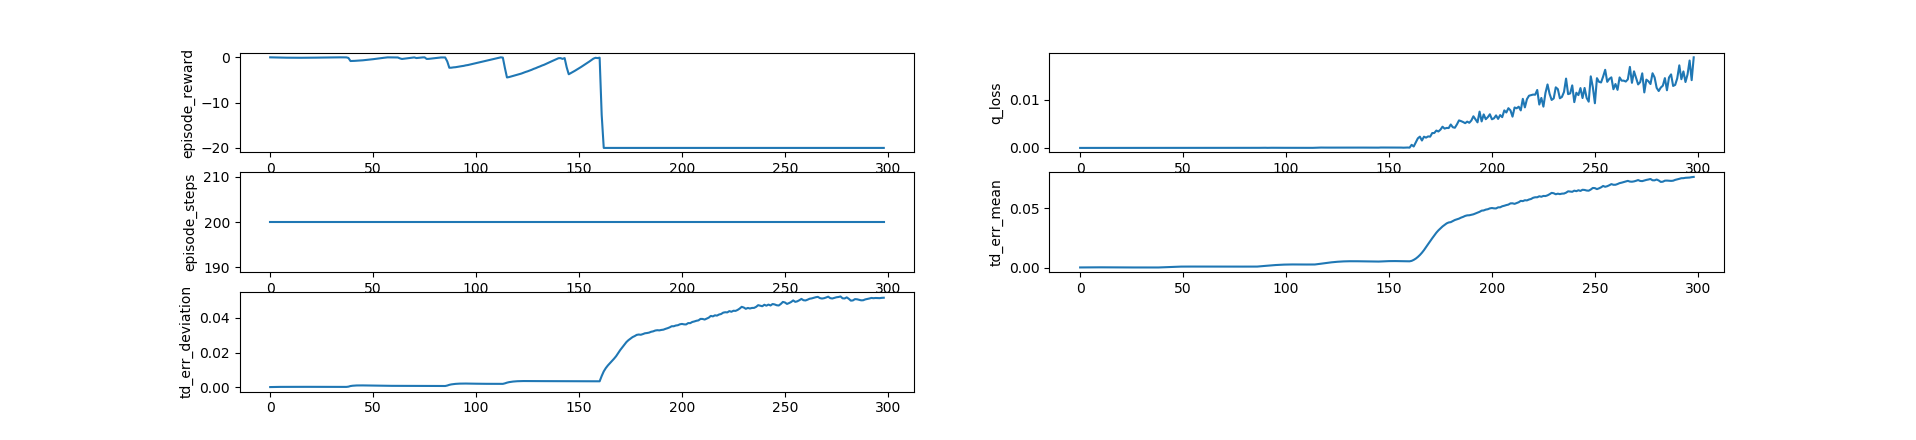
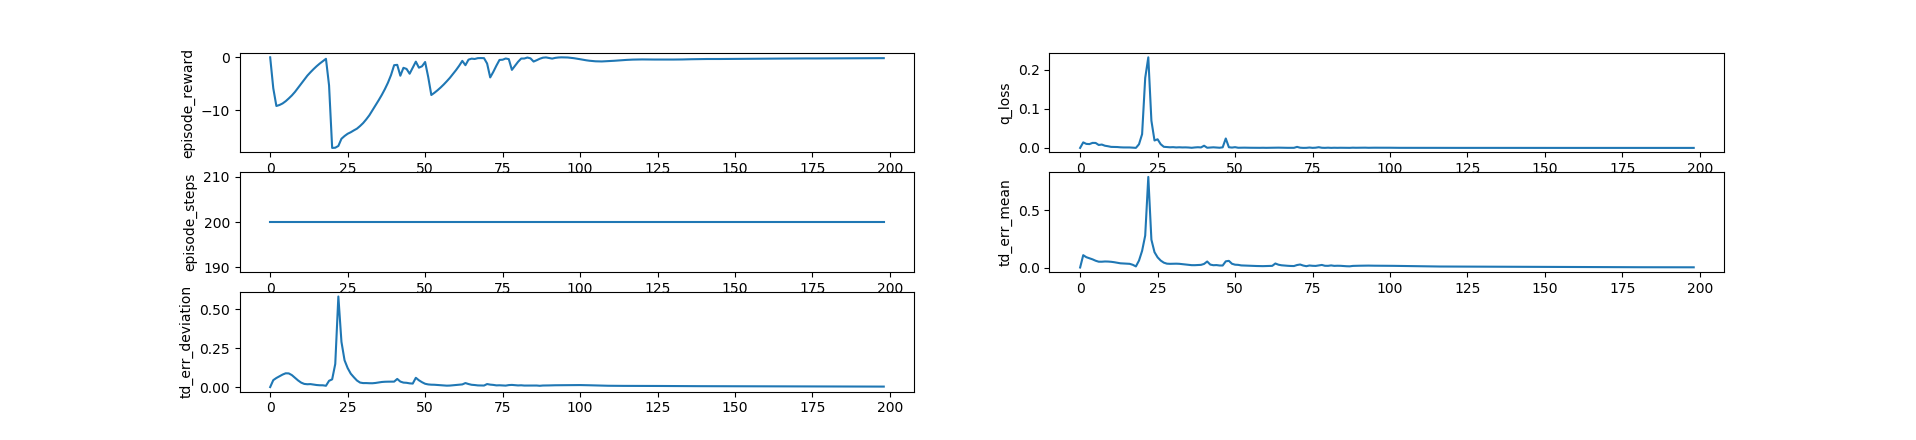
Bugfix of Q-Network. Comparison graphs with/without priority replay.

diff --git a/agents/q_network.py b/agents/q_network.py
@@ -21,7 +21,7 @@ class QNetwork():
         logging.debug('state_out', state_out)
 
         # action network
-        x = tf.layers.dense(self.state, hidden_units)
+        x = tf.layers.dense(self.action, hidden_units)
         x = tf.nn.relu(x)
 
         x = tf.layers.dense(x, hidden_units)

diff --git a/README.md b/README.md
@@ -13,7 +13,11 @@ Current version has simplified task - learn `MountainCarContinuous-v0` task from
 
 ## Metrics
 
+Without priority replay:
 ![Metrics](./graphs.png)
+
+With priority replay:
+![Metrics](./graphs-priority.png)
 
 ## Project Instructions
 
